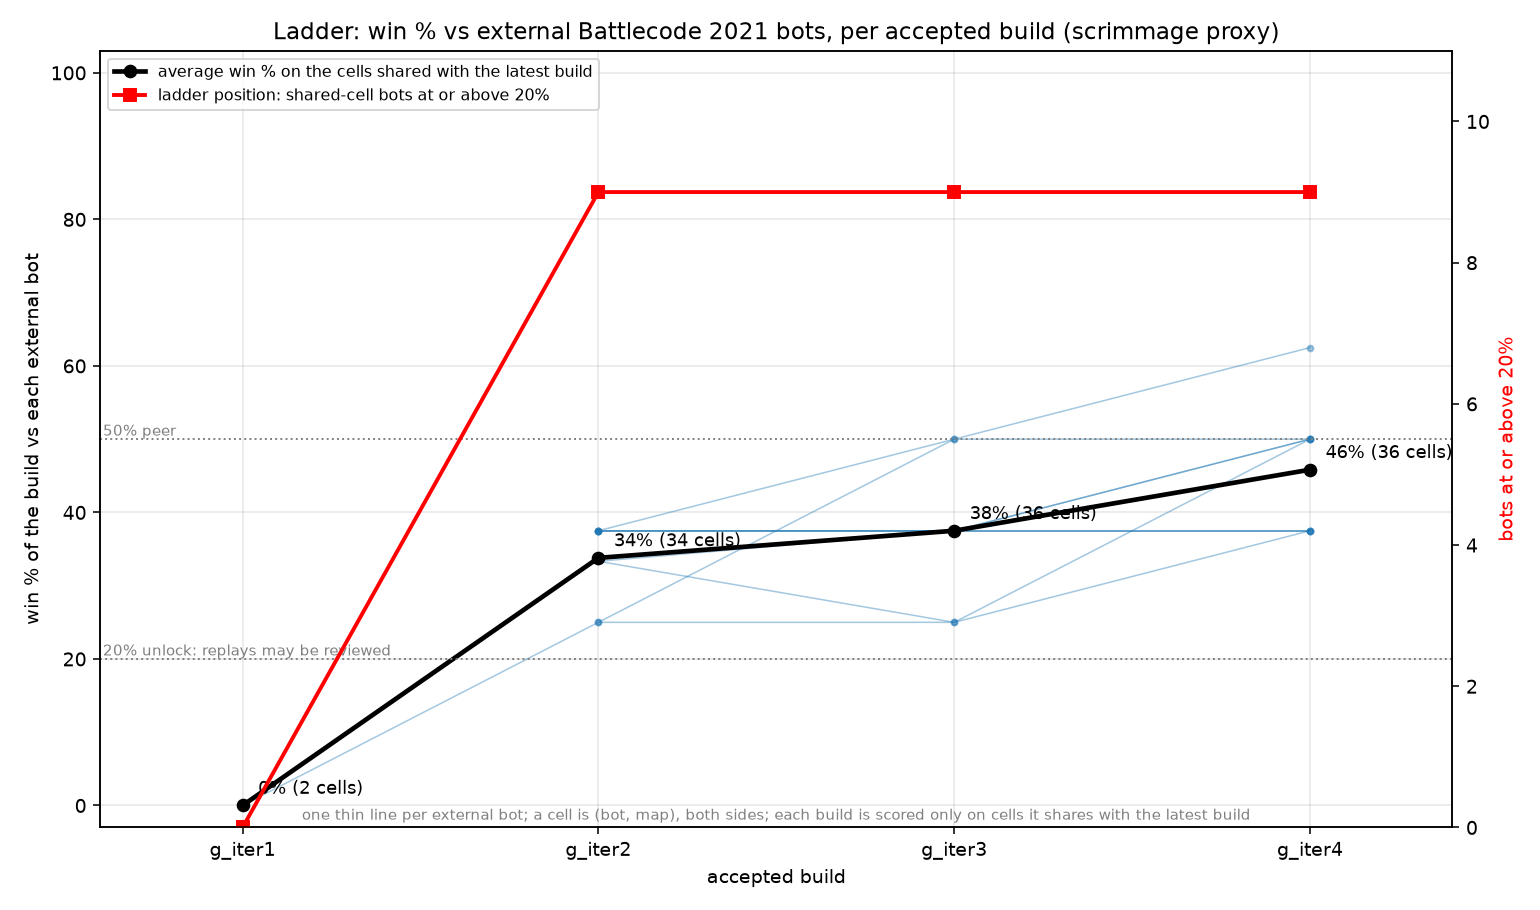
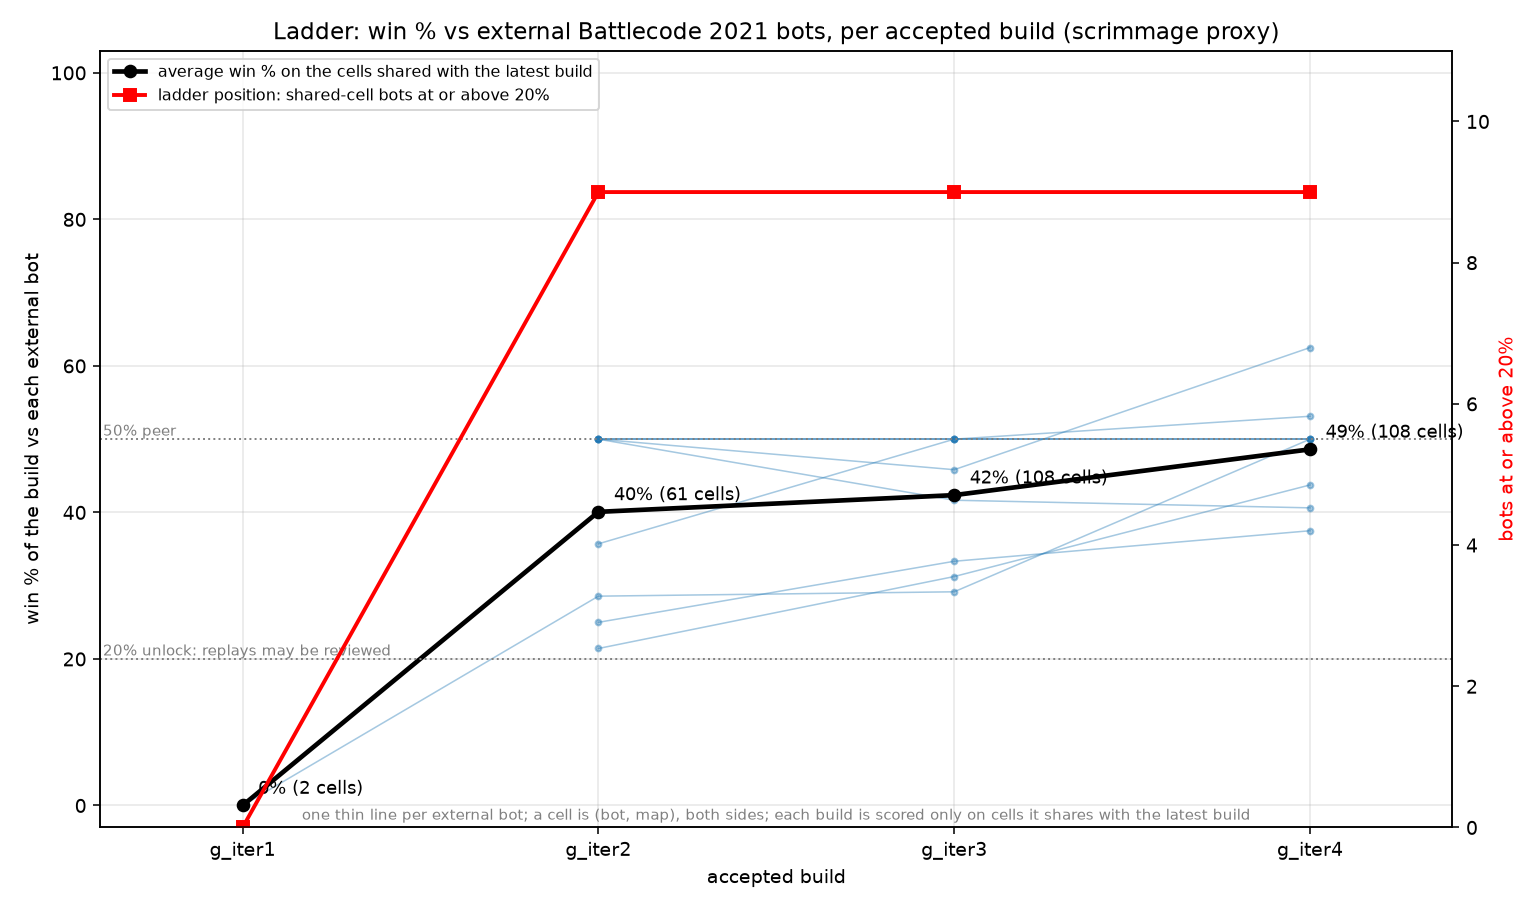
g_iter4 roster baseline 107/216 (49.5%), +17 over g_iter3 on the same cells; history + charts; capbank final 31 vs 33

diff --git a/TRAINING_LOG.md b/TRAINING_LOG.md
@@ -1048,6 +1048,16 @@ on even rounds; it acts before its slanderers within a round, so a slanderer
 reading on even rounds never sees the odd-round flag. Completeness fix:
 slanderers read the home flag every round (one flag read). Relaunched.
 
+**`g_iter4` roster baseline complete (08:20 UTC,
+`gauntlet/20260917-044622-roster-g_iter4`): 107/216 (49.5%)** against
+`g_iter3`'s 90/216 on the same 216 cells: +17 (sd ~7.3 under independence,
+2.3 sd), which puts Iteration 9 well above the floor after all. Per
+opponent on `g_iter4`: iliao2345, max-titov and arya-k 37.5%, 123kevinlee
+50%, Sihal3 and the three piedPipers 54%, qawsedrftgzh 67% (above the band;
+re-tiered at the next scan). Capbank's final comparison on all 72 shared
+cells: 31 vs 33 (rejected, as logged). This baseline is the comparison for
+every candidate until the next accept.
+
 ## Standing tables (updated in place)
 
 ### Functional-area map
